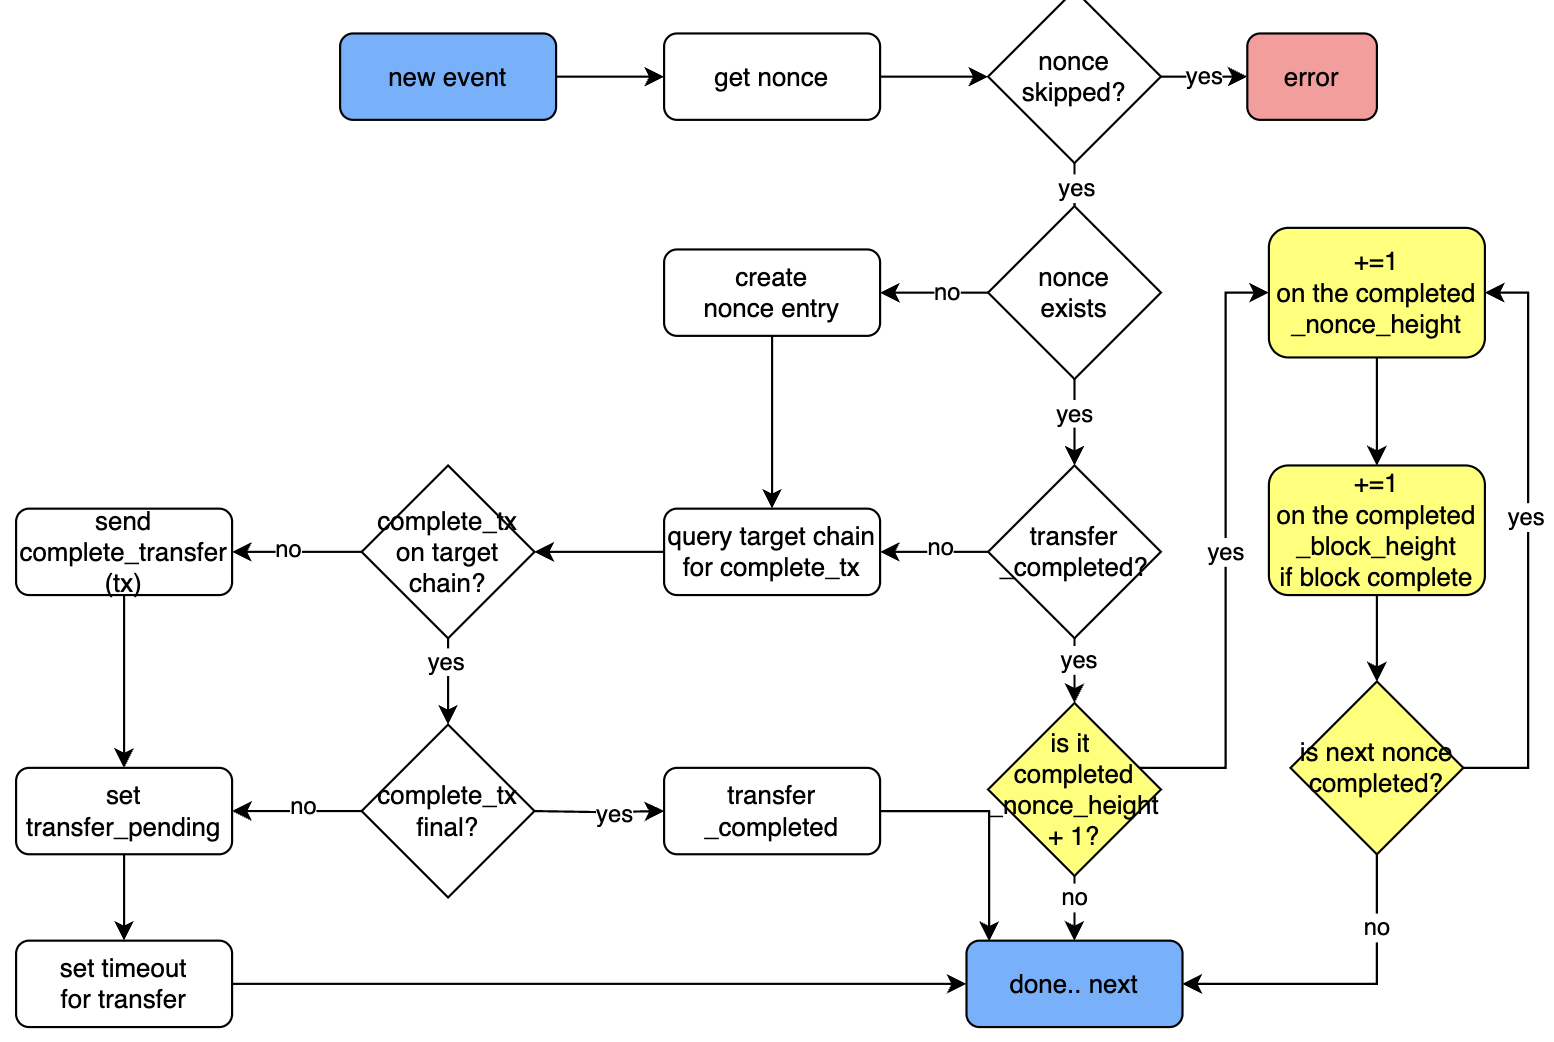
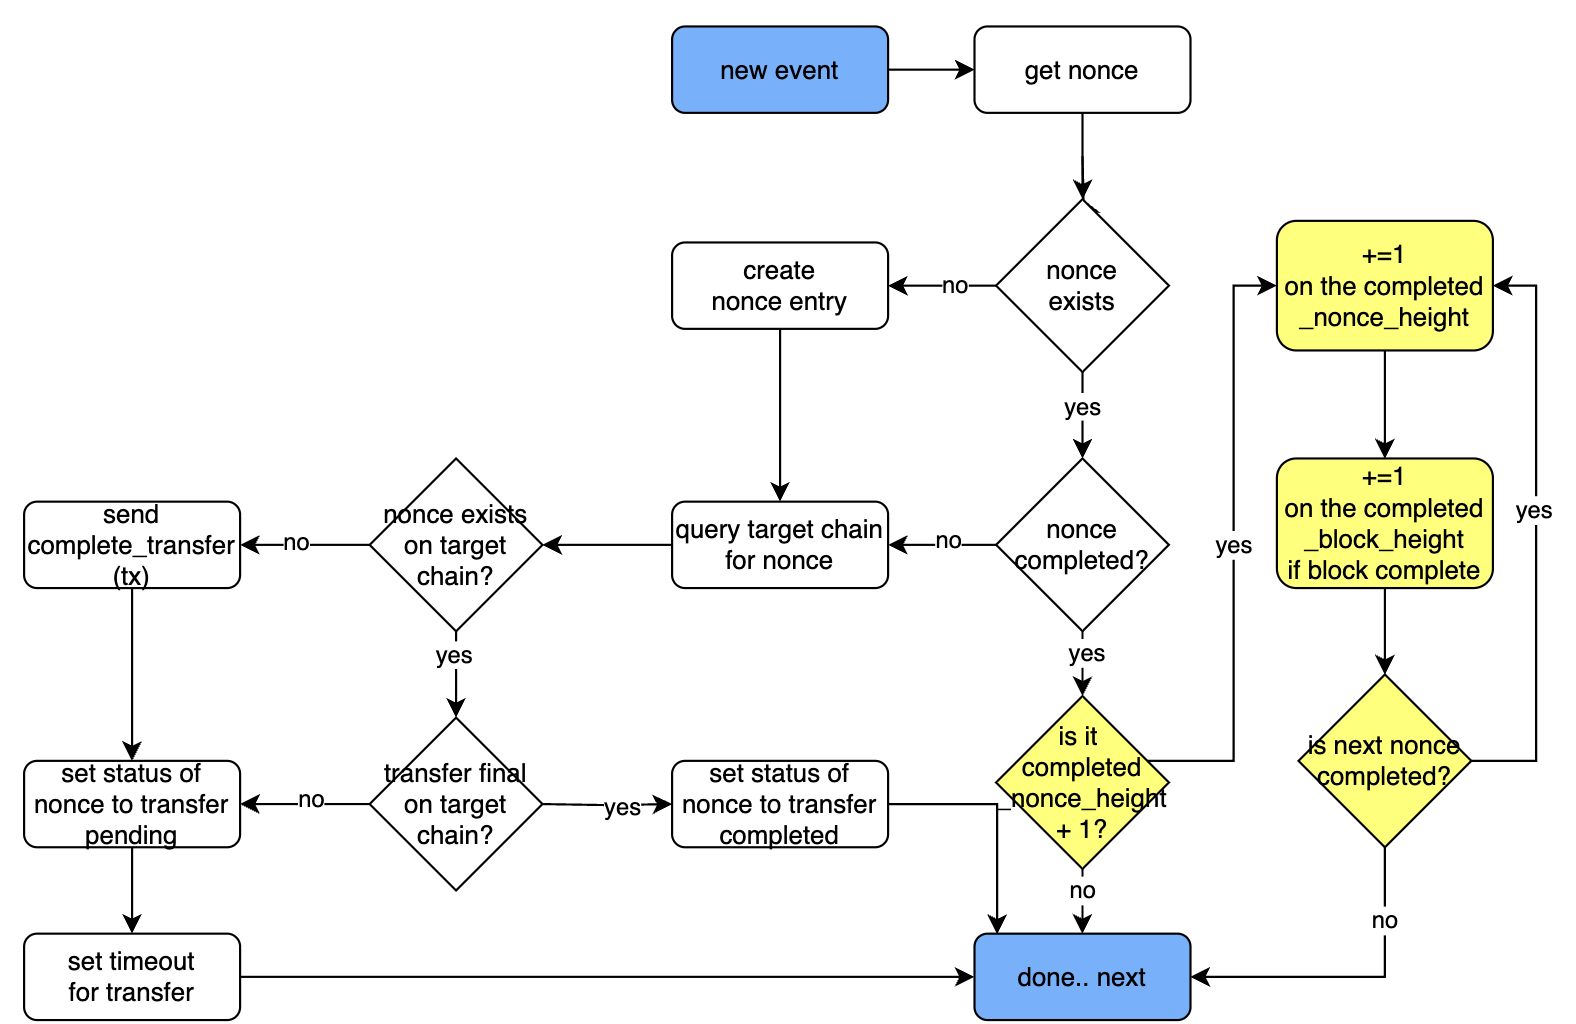
new pics

Changed region(s): [[0.0, 0.1875, 0.9884, 1.0], [0.2162, 0.0, 0.8958, 0.2188], [0.6795, 0.3438, 0.7104, 0.4688]]

diff --git a/MIP/mip-61/README.md b/MIP/mip-61/README.md
@@ -110,7 +110,7 @@ The Native Bridge protocol MUST implement the assignment of an incrementing `non
 
 For each `initiate_transfer` event do the following:
 
-![alt text](event_processing.png)
+![event_processing](event_processing.png)
 
 ```javascript
 EVENT_PROCESSING:
@@ -119,10 +119,6 @@ EVENT_PROCESSING:
 SET `nonce` = `initiate_transfer_event.nonce`
 SET `transfer_uid` = `initiate_transfer_event.transfer_uid`
 
-// Check if the `nonce` is valid
-IF `nonce` is skipped THEN:
-    REPORT error and EXIT
-
 // Check if the `nonce` is already recorded
 IF `nonce` is recorded THEN:
     IF `nonce.status_transfer` is `transfer_completed` THEN:
@@ -130,9 +126,9 @@ IF `nonce` is recorded THEN:
 ELSE: 
     CREATE new `nonce` entry locally
 
-QUERY target chain contract for `nonce`
+QUERY target chain contract for `nonce` // this includes non-final state!
         
-// If `complete_transfer`transfer` transaction was executed successfully
+// If `complete_transfer` transaction was sent previously to target chain
 IF `nonce` is found THEN:
     IF `transfer_uid` does not match THEN:
         REPORT error and EXIT
@@ -140,9 +136,12 @@ IF `nonce` is found THEN:
     IF `nonce` transfer is final THEN:
         SET `nonce.status_transfer` to `transfer_completed`
     ELSE:
+        // the status should be `transfer_pending`
+        IF `nonce.status_transfer` is NOT `transfer_pending` THEN:
+            LOG "error: nonce.status_transfer is not transfer_pending"
         SET `nonce.status_transfer` to `transfer_pending`
         SET timeout for relayer to re-check later
-// If no `complete_transfer` transaction was executed 
+// If no `complete_transfer` transaction was sent 
 ELSE:
     SEND `complete_transfer` transaction to target chain
     SET `nonce.status_transfer` to `transfer_pending`
@@ -153,7 +152,7 @@ ELSE:
 
 Next we describe the processing of source blocks and the completion of a transfer on the target chain, assuming the relayer is always online. Since this is a strong assumption, we reduce this requirement in the next section.
 
-![alt text](continuous_processing.png)
+![continuous_processing](continuous_processing.png)
 
 ```javascript
 CONTINUOUS_BLOCK_PROCESSING: 
@@ -170,17 +169,17 @@ SET `block.status` as `block_processed`
 
 !!! . Setting the source_block.status as processed and storing that information in a file, or similar, could help with bootstrapping the relayer in the future.
 
-#### Optimizations to consider errors in the above procedure**
+#### Optimizations to consider errors in the above procedure
 This step is optional but should be considered.
 
 Introduce a status `transfer_init` to differentiate a state between nonce creation locally and sending successfully a `complete_transfer` transaction to the target chain.
 
-![alt text](init_optimization.png)
+![init_optimization](init_optimization.png)
 
-#### Calculation of Completed Source Block Height**
+#### Calculation of Completed Source Block Height
 In this section the process is defined to calculate the completed part of the source chain `completed_block_height` and `completed_nonce_height`.
 
-![alt text](complete_block_height.png)
+![complete_block_height](complete_block_height.png)
 
 Replace
 
@@ -232,7 +231,7 @@ ON timeoutTriggered(`timeoutTriggeredEvent`) DO:
 
 Next we describe how the bootstrap algorithm works and differs from the above.
 
-!!! . A node that is bootstrapping MUST start the [CONTINUOUS_BLOCK_PROCESSING](#continuous-block-processing) algorithm in parallel.
+!!! . A node that is bootstrapping SHOULD start the [CONTINUOUS_BLOCK_PROCESSING](#continuous-block-processing) algorithm in parallel. This allows to immediately assume normal operation while 
 
 ![alt text](bootstrap.png)
 
